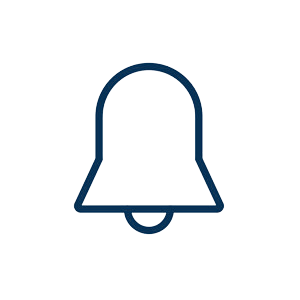
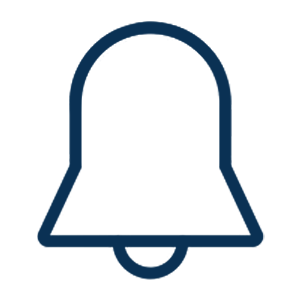
Boton y tabla notificaciones

Changed region(s): [[0.12, 0.06, 0.9, 0.93]]

diff --git a/src/css/style.css b/src/css/style.css
@@ -420,6 +420,7 @@ table, caption, tbody, tfoot, thead, tr, th, td {
 .navbar__button-container {
   margin-left: auto;
   margin-right: 12rem;
+  display: flex;
 }
 @media screen and (max-width: 75em) {
   .navbar__button-container {
@@ -1266,9 +1267,14 @@ table, caption, tbody, tfoot, thead, tr, th, td {
 .image-link {
   margin: auto;
 }
+.image-link > a {
+  display: flex;
+  align-items: center;
+}
 .image-link__image {
   min-width: 8rem;
   width: 8rem;
+  margin: auto;
   min-height: 8rem;
   height: 8rem;
   filter: brightness(0) saturate(100%) invert(58%) sepia(25%) saturate(6296%) hue-rotate(159deg) brightness(94%) contrast(102%);
@@ -1439,6 +1445,27 @@ table, caption, tbody, tfoot, thead, tr, th, td {
 
 .table-body-row {
   border-bottom: 1px solid black;
+}
+.table-body-row--leida {
+  background-color: #EFEFEF;
+}
+.table-body-row__imagen-notificacion {
+  min-width: 3.4rem;
+  width: 3.4rem;
+  height: 3.4rem;
+  min-height: 3.4rem;
+  filter: brightness(0) saturate(100%) invert(58%) sepia(25%) saturate(6296%) hue-rotate(159deg) brightness(94%) contrast(102%);
+}
+.table-body-row__imagen-notificacion--leida {
+  filter: brightness(0) saturate(100%) invert(46%) sepia(1%) saturate(0%) hue-rotate(142deg) brightness(97%) contrast(85%);
+}
+@media screen and (max-width: 37.5em) {
+  .table-body-row__imagen-notificacion {
+    min-width: 3rem;
+    width: 3rem;
+    min-height: 3rem;
+    height: 3rem;
+  }
 }
 .table-body-row__td {
   font-size: 1.8rem;
@@ -2558,7 +2585,7 @@ table, caption, tbody, tfoot, thead, tr, th, td {
 }
 
 .generic-badge {
-  display: flex;
+  display: inline-block;
   padding: 1rem;
   width: fit-content;
   border-radius: 2rem;
@@ -3595,6 +3622,51 @@ table, caption, tbody, tfoot, thead, tr, th, td {
   .categoria-form {
     width: 80%;
   }
+}
+
+.navbar-campana {
+  display: flex;
+  align-items: center;
+  padding: 1rem;
+  margin-right: 3rem;
+  position: relative;
+}
+@media screen and (max-width: 37.5em) {
+  .navbar-campana {
+    margin-right: 1rem;
+  }
+}
+.navbar-campana:hover {
+  background-color: #ffffff;
+  border-radius: 100rem;
+  cursor: pointer;
+}
+.navbar-campana:hover .navbar-campana__img {
+  filter: brightness(0) saturate(100%) invert(58%) sepia(25%) saturate(6296%) hue-rotate(159deg) brightness(94%) contrast(102%);
+}
+.navbar-campana:hover .navbar-campana__numero {
+  background-color: #00ACE6;
+  color: #ffffff;
+}
+.navbar-campana__img {
+  align-self: center;
+  height: 5rem;
+  width: 5rem;
+  margin: auto;
+  filter: saturate(0) brightness(100);
+}
+.navbar-campana__numero {
+  color: #00ACE6;
+  background-color: #ffffff;
+  font-size: 2rem;
+  padding: 0rem 0.8rem;
+  text-align: center;
+  border-radius: 100%;
+  margin: auto;
+  z-index: 5;
+  position: absolute;
+  top: 1rem;
+  right: 1rem;
 }
 
 .login {

diff --git a/src/js/components/Notification/NotificationTable.jsx b/src/js/components/Notification/NotificationTable.jsx
@@ -92,14 +92,19 @@ const NotificationTable = (props) => {
                     {notificaciones && currentTableData.map(notificacion => {
                         const formatoFecha = new Date(notificacion.timestamp).toLocaleDateString('es-AR', opciones)
                         return (
-                            <tr key={notificacion._id} className="table-body-row">
-                                <td style={parseInt(notificacion.estado) === 2 ? {color: 'red'} : {color: 'grey'}}>
+                            <tr key={notificacion._id} className={parseInt(notificacion.estado) === 2 ? "table-body-row table-body-row--leida" :  "table-body-row" }>
+                                <td className="table-body-row__td">
                                     {notificacion.mensaje}
                                     <br />
                                     {formatoFecha}
                                 </td>
                                 <td className="table-body-row__td">
-                                    <ImageButton small={true} src={require("../../../assets/verificado.png")} callback={() => readNotification(notificacion._id)} text="Marcar como leída"/>
+                                    <img 
+                                        className={parseInt(notificacion.estado) === 2 ? "table-body-row__imagen-notificacion table-body-row__imagen-notificacion--leida" : "table-body-row__imagen-notificacion"} 
+                                        src={require("../../../assets/verificado.png")} 
+                                        alt="Marcar como leída" 
+                                        onClick={() => readNotification(notificacion._id)}
+                                    />
                                 </td>   
                             </ tr>
                         )

diff --git a/src/js/components/Navbar/Navbar.jsx b/src/js/components/Navbar/Navbar.jsx
@@ -9,6 +9,8 @@ import { useLocation, useNavigate} from "react-router-dom";
 import { useDispatch, useSelector } from "react-redux";
 import { uiActions } from "../../../store/ui-slice";
 import { useEffect, useState } from "react";
+import ImageLink from "../ImageLink/ImageLink";
+import NavbarCampana from "./NavbarCampana";
 
 const Navbar = (props) => {
     const [windowWidth, setWindowWidth] = useState(window.innerWidth);
@@ -70,9 +72,11 @@ const Navbar = (props) => {
 
             <div className="navbar__button-container">
                 { auth?.roles ?
-                    // <Button text="Salir" onClickHandler={signOut}/>
-                    <DropdownButton img={require("../../../assets/user.png")} dropdown={showNavbarMenu} onClick={toggleNavbarMenu} navigatePerfil={navigatePerfil} signOut={signOut}/>
-                    :
+                    <>
+                        <NavbarCampana />
+                        <DropdownButton img={require("../../../assets/user.png")} dropdown={showNavbarMenu} onClick={toggleNavbarMenu} navigatePerfil={navigatePerfil} signOut={signOut}/>
+                    </>
+                   :
                     <Button text="Ingresar" onClickHandler={location.pathname !== '/home' ? navigateHome : props.openModal }/>
                 }
             </div>    

diff --git a/src/sass/components/_navbar-campana.scss b/src/sass/components/_navbar-campana.scss
@@ -1,0 +1,56 @@
+.navbar-campana {
+    display: flex;
+    align-items: center;
+    padding: 1rem;
+    margin-right: 3rem;
+    position: relative;
+
+    @media screen and (max-width: $bp-small) {
+        margin-right: 1rem;
+    }
+
+    &:hover {
+        background-color: $color-white;
+        border-radius: 100rem;
+        cursor: pointer;
+    }
+
+    &:hover &__img {
+        filter: brightness(0) saturate(100%) invert(58%) sepia(25%) saturate(6296%) hue-rotate(159deg) brightness(94%) contrast(102%);
+    }
+
+    &:hover &__numero {
+        background-color: $color-primary;
+        color: $color-white;
+    }
+
+
+    &__img {
+        align-self: center;
+        height: 5rem;
+        width: 5rem;
+        margin: auto;
+        filter: saturate(0) brightness(100);
+    }
+
+    &__numero {
+        color: $color-primary;
+        background-color: $color-white;
+        font-size: 2rem;
+        padding: 0rem .8rem;
+        
+        text-align: center;
+        border-radius: 100%;
+        margin: auto;
+        z-index: 5;
+
+
+        position: absolute;
+        top: 1rem;
+        right: 1rem;
+    }
+
+    
+
+    
+}

diff --git a/src/sass/components/_table-body-row.scss b/src/sass/components/_table-body-row.scss
@@ -1,6 +1,30 @@
 .table-body-row {
     border-bottom: 1px solid black;
 
+    &--leida {
+        background-color: $color-grey;
+    }
+
+    &__imagen-notificacion {
+        min-width: 3.4rem;
+        width: 3.4rem;
+        height: 3.4rem;
+        min-height: 3.4rem;
+        filter: brightness(0) saturate(100%) invert(58%) sepia(25%) saturate(6296%) hue-rotate(159deg) brightness(94%) contrast(102%);
+
+        &--leida {
+            filter: brightness(0) saturate(100%) invert(46%) sepia(1%) saturate(0%) hue-rotate(142deg) brightness(97%) contrast(85%);
+        }
+
+        @media screen and (max-width: $bp-small) {
+            min-width: 3rem;
+            width: 3rem;
+
+            min-height: 3rem;
+            height: 3rem;
+        }
+    }
+
     &__td {
         font-size: 1.8rem;
         text-align: center;
@@ -34,11 +58,11 @@
             display: flex;
         }
 
+        
         &--badges {
             justify-content: center;
             //flex-direction: column;
         }
-
 
         & > input[type=checkbox] {
             width: 2.3rem;

diff --git a/src/js/components/Navbar/NavbarCampana.jsx b/src/js/components/Navbar/NavbarCampana.jsx
@@ -1,0 +1,17 @@
+import { useSelector } from "react-redux";
+import ImageLink from "../ImageLink/ImageLink";
+
+const NavbarCampana = (props) => {
+    const notificaciones = useSelector(state => state.notificaciones.notificaciones) 
+    const sinLeer = notificaciones.filter(obj => obj.estado === "1");
+    
+    return (
+        <div className="navbar-campana">
+            {sinLeer.length ? <div className="navbar-campana__numero">{sinLeer.length}</div> : ""}
+            <ImageLink linkto="/notificaciones" img={<img className="navbar-campana__img" src={require("../../../assets/campana.png")} alt="Notificaciones" />}/>
+        </div>
+
+    )
+}
+
+export default NavbarCampana;

diff --git a/src/sass/components/_navbar.scss b/src/sass/components/_navbar.scss
@@ -13,6 +13,8 @@
         background-color: transparent;
     }
 
+    
+
     &__burguer {
         align-self: center;
         margin-left: 4rem;
@@ -95,6 +97,7 @@
     &__button-container {
         margin-left: auto;
         margin-right: 12rem;
+        display: flex;
 
         @media screen and (max-width: $bp-largest) {
             margin-right: 6rem;

diff --git a/src/js/components/ImageLink/ImageLink.jsx b/src/js/components/ImageLink/ImageLink.jsx
@@ -1,10 +1,8 @@
 import { Link, useLocation } from "react-router-dom"
 
-
 const ImageLink = (props) => {
     const modifier = props.small ? "--small" : ""
     const location = useLocation()
-    
     return (
         <div className={`image-link image-link${modifier}`}>
             <Link to={props.linkto} state={{from: `${location.pathname}`}}>

diff --git a/src/sass/components/_image-link.scss b/src/sass/components/_image-link.scss
@@ -1,10 +1,16 @@
 .image-link {
     margin: auto;
-    
+
+    & > a {
+        display: flex;
+        align-items: center;
+    }
   
+
   &__image {
         min-width: 8rem;
         width: 8rem;
+        margin: auto;
 
         min-height: 8rem;
         height: 8rem;

diff --git a/src/sass/main.scss b/src/sass/main.scss
@@ -91,6 +91,7 @@
 @import 'components/crear-categoria';
 @import 'components/promover-proyectos';
 @import 'components/categoria-form';
+@import 'components/navbar-campana';
 
 
 // IMPORTAR SCSS DE PAGINAS

diff --git a/src/sass/components/_generic-badge.scss b/src/sass/components/_generic-badge.scss
@@ -1,6 +1,6 @@
 .generic-badge {
 
-        display: flex;
+        display: inline-block;
         padding: 1rem;
         //width: 15rem;
         width: fit-content;
